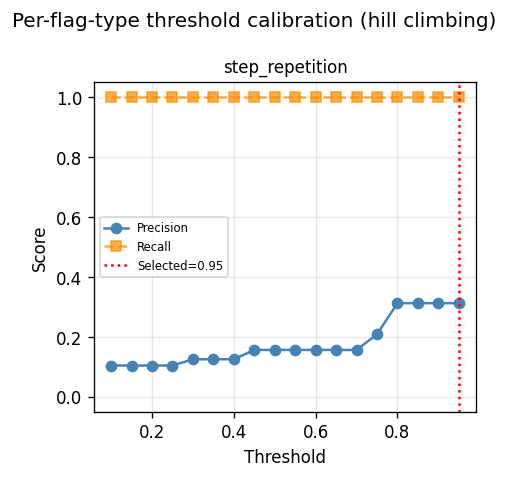
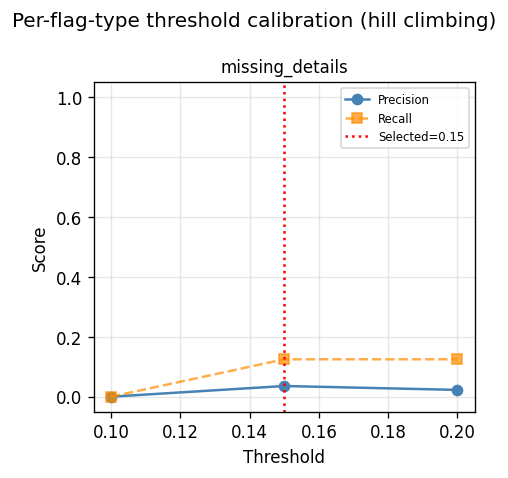
chore(28-03): re-calibrate Tier 3 types + fix no_verification WRITE_MUTATE_KEYWORDS gap
- missing_details: P=0.036 R=0.125 at threshold=0.15 (up from P=0.019 baseline)
- no_verification: P=0.031 R=1.000 (up from P=0.025 baseline)
- Rule 1 auto-fix: WRITE_MUTATE_KEYWORDS in _check_no_verification expanded to include
  send/email/execute/sql/submit/publish/deploy — fixture uses send_email/execute_sql
  which were not matched by the original keyword set; dropping R from 1.0 to 0.0
- Both recall floors satisfied (R >= 0.10), 28 routing tests pass

diff --git a/xeter/services/worker/trace_analyzer.py b/xeter/services/worker/trace_analyzer.py
@@ -534,9 +534,12 @@ class TraceAnalyzer(BaseTraceAnalyzer):
 
         # Guard: only apply when the trace has at least one write/mutate tool call.
         # Read-only traces have nothing to verify — check would fire vacuously.
+        # "send" covers send_email/send_message; "execute"/"sql" covers execute_sql;
+        # "submit" covers form submissions — all are write/side-effect operations.
         WRITE_MUTATE_KEYWORDS: frozenset[str] = frozenset({
             "write", "create", "update", "delete", "insert", "save",
             "post", "put", "patch", "modify", "set",
+            "send", "email", "execute", "sql", "submit", "publish", "deploy",
         })
         has_write_mutate = any(
             kw in (span.tool_name or "").lower() or kw in (span.tool_description or "").lower()
